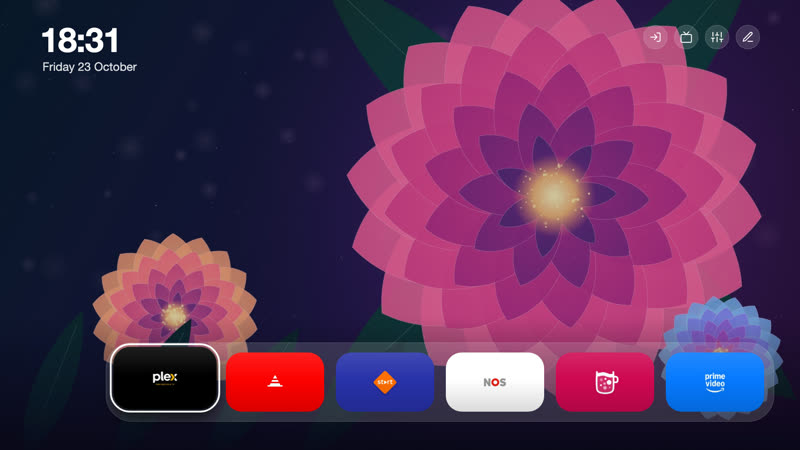
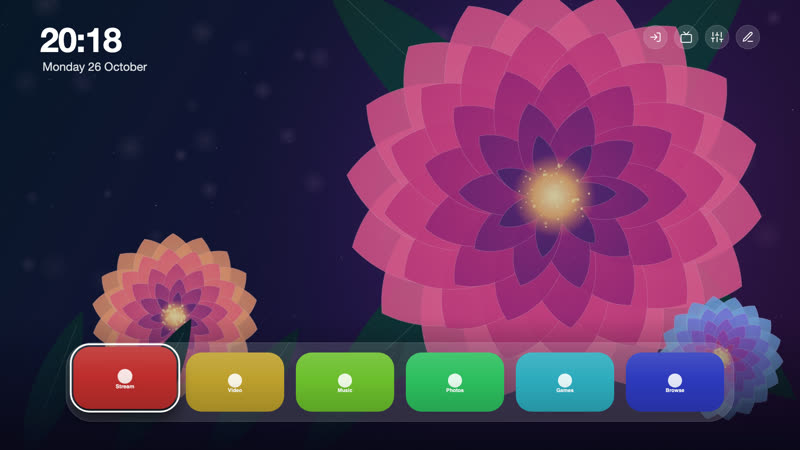
Bloom: the dock is centred. A centred dock, clock or bar was pushed 96 px off centre by the default distance from a side, and in Arabic (right-to-left) the dock went off the screen. A centred box now sits in the middle in both directions, and the Bloom preview is redone.

Changed region(s): [[0.0625, 0.7467, 0.9688, 0.9644], [0.0312, 0.0622, 0.1875, 0.1556]]

diff --git a/helper/themeschema.js b/helper/themeschema.js
@@ -67,7 +67,7 @@ const SCHEMA = [
   ['clock.layout', 'enum', ['inline', 'stack'], 'inline', '`inline`: the date beside the time; `stack`: under it.'],
   ['clock.anchor', 'enum', TOPBOT, 'top', 'Which screen edge `clock.y` counts from.'],
   ['clock.align', 'enum', POS, 'left', 'Which side `clock.x` counts from; `center` centres it.'],
-  ['clock.x', 'int', [0, 900], 96, 'Distance from that side, in px (on a 1920 x 1080 canvas).'],
+  ['clock.x', 'int', [0, 900], 96, 'Distance from that side, in px (on a 1920 x 1080 canvas). Not used when centred.'],
   ['clock.y', 'int', [0, 900], 54, 'Distance from the top or bottom edge, in px.'],
   ['clock.scale', 'num', [0.6, 2.5], 1, 'Scale of the time.'],
   ['clock.dateScale', 'num', [0.6, 2], 1, 'Scale of the date.'],
@@ -82,7 +82,7 @@ const SCHEMA = [
   ['bar.labels', 'enum', ['auto', 'show', 'hide'], 'auto', 'Button labels: `auto` shows them except in the `round` style.'],
   ['bar.anchor', 'enum', TOPBOT, 'top', 'Which screen edge `bar.y` counts from.'],
   ['bar.align', 'enum', POS, 'right', 'Which side `bar.x` counts from.'],
-  ['bar.x', 'int', [0, 900], 96, 'Distance from that side, in px.'],
+  ['bar.x', 'int', [0, 900], 96, 'Distance from that side, in px. Not used when centred.'],
   ['bar.y', 'int', [0, 900], 54, 'Distance from the top or bottom edge, in px.'],
   ['bar.size', 'int', [40, 100], 64, 'Height of a button, in px.'],
   ['bar.gap', 'int', [4, 40], 16, 'Space between buttons, in px.'],
@@ -93,7 +93,7 @@ const SCHEMA = [
   ['shelf.scale', 'num', [0.4, 1.6], 1, 'Scale of the name.'],
   ['dock.anchor', 'enum', TOPBOT, 'top', 'Which screen edge `dock.y` counts from.'],
   ['dock.align', 'enum', POS, 'left', 'Which side `dock.x` counts from; `center` centres the dock.'],
-  ['dock.x', 'int', [0, 900], 96, 'Distance from that side, in px.'],
+  ['dock.x', 'int', [0, 900], 96, 'Distance from that side, in px. Not used when centred.'],
   ['dock.y', 'auto', [0, 1000], null, 'Distance from the top or bottom edge, in px. Empty: 360 from the top, 68 from the bottom.'],
   ['dock.count', 'int', [3, 8], 4, 'Apps in the dock.'],
   ['dock.w', 'int', [120, 500], 408, 'Width of a dock tile, in px.'],
@@ -257,7 +257,8 @@ function place(anchor, align, x, y) {
   if (align === 'left') o.l = px(x);
   else if (align === 'right') o.r = px(x);
   else {
-    o.l = 'calc(50% + ' + x + 'px)';
+    // centred: x is a distance from a side, so it does not apply
+    o.l = '50%';
     o.tx = 'translateX(-50%)';
   }
   if (anchor === 'top') o.t = px(y);

diff --git a/app/index.html b/app/index.html
@@ -1274,6 +1274,7 @@ svg.st {
 [dir="rtl"] #clock {
   left: var(--clock-r);
   right: var(--clock-l);
+  transform: var(--clock-txr, var(--clock-tx));
 }
 [dir="rtl"] #date {
   margin-left: 0;
@@ -1285,6 +1286,7 @@ svg.st {
 [dir="rtl"] #bar {
   left: var(--bar-r);
   right: var(--bar-l);
+  transform: var(--bar-txr, var(--bar-tx));
 }
 [dir="rtl"] #bar > * + * {
   margin-left: 0;
@@ -1303,6 +1305,7 @@ svg.st {
 [dir="rtl"] #dock {
   left: var(--dock-r);
   right: var(--dock-l);
+  transform: var(--dock-txr, var(--dock-tx));
 }
 [dir="rtl"] #dock > * + * {
   margin-left: 0;
@@ -1970,6 +1973,13 @@ function applyTheme(t) {
     st.setProperty(k, t.vars[k]);
     themeKeys.push(k);
   }
+  /* a centred box is placed from the right in a right-to-left language (rtl.css), so it moves the other way to its centre */
+  ['clock', 'bar', 'dock'].forEach(function (n) {
+    if (t.vars['--' + n + '-tx'] === 'translateX(-50%)') {
+      st.setProperty('--' + n + '-txr', 'translateX(50%)');
+      themeKeys.push('--' + n + '-txr');
+    }
+  });
   /* a theme's own typeface, served from its folder; the family name is in --font */
   var fs = $('tfont'),
     f = t.font,

diff --git a/app/src/js/theme.js b/app/src/js/theme.js
@@ -19,6 +19,13 @@ function applyTheme(t) {
     st.setProperty(k, t.vars[k]);
     themeKeys.push(k);
   }
+  /* a centred box is placed from the right in a right-to-left language (rtl.css), so it moves the other way to its centre */
+  ['clock', 'bar', 'dock'].forEach(function (n) {
+    if (t.vars['--' + n + '-tx'] === 'translateX(-50%)') {
+      st.setProperty('--' + n + '-txr', 'translateX(50%)');
+      themeKeys.push('--' + n + '-txr');
+    }
+  });
   /* a theme's own typeface, served from its folder; the family name is in --font */
   var fs = $('tfont'),
     f = t.font,

diff --git a/app/src/css/rtl.css b/app/src/css/rtl.css
@@ -4,6 +4,7 @@
 [dir="rtl"] #clock {
   left: var(--clock-r);
   right: var(--clock-l);
+  transform: var(--clock-txr, var(--clock-tx));
 }
 [dir="rtl"] #date {
   margin-left: 0;
@@ -15,6 +16,7 @@
 [dir="rtl"] #bar {
   left: var(--bar-r);
   right: var(--bar-l);
+  transform: var(--bar-txr, var(--bar-tx));
 }
 [dir="rtl"] #bar > * + * {
   margin-left: 0;
@@ -33,6 +35,7 @@
 [dir="rtl"] #dock {
   left: var(--dock-r);
   right: var(--dock-l);
+  transform: var(--dock-txr, var(--dock-tx));
 }
 [dir="rtl"] #dock > * + * {
   margin-left: 0;

diff --git a/docs/themes.md b/docs/themes.md
@@ -161,7 +161,7 @@ when the focus moves down into it (Back or Up closes it); a dock at the top leav
 | `clock.layout` | `inline`, `stack` | `inline` | `inline`: the date beside the time; `stack`: under it. |
 | `clock.anchor` | `top`, `bottom` | `top` | Which screen edge `clock.y` counts from. |
 | `clock.align` | `left`, `center`, `right` | `left` | Which side `clock.x` counts from; `center` centres it. |
-| `clock.x` | 0 to 900 | `96` | Distance from that side, in px (on a 1920 x 1080 canvas). |
+| `clock.x` | 0 to 900 | `96` | Distance from that side, in px (on a 1920 x 1080 canvas). Not used when centred. |
 | `clock.y` | 0 to 900 | `54` | Distance from the top or bottom edge, in px. |
 | `clock.scale` | 0.6 to 2.5 | `1` | Scale of the time. |
 | `clock.dateScale` | 0.6 to 2 | `1` | Scale of the date. |
@@ -171,7 +171,7 @@ when the focus moves down into it (Back or Up closes it); a dock at the top leav
 | `bar.labels` | `auto`, `show`, `hide` | `auto` | Button labels: `auto` shows them except in the `round` style. |
 | `bar.anchor` | `top`, `bottom` | `top` | Which screen edge `bar.y` counts from. |
 | `bar.align` | `left`, `center`, `right` | `right` | Which side `bar.x` counts from. |
-| `bar.x` | 0 to 900 | `96` | Distance from that side, in px. |
+| `bar.x` | 0 to 900 | `96` | Distance from that side, in px. Not used when centred. |
 | `bar.y` | 0 to 900 | `54` | Distance from the top or bottom edge, in px. |
 | `bar.size` | 40 to 100 | `64` | Height of a button, in px. |
 | `bar.gap` | 4 to 40 | `16` | Space between buttons, in px. |
@@ -184,7 +184,7 @@ when the focus moves down into it (Back or Up closes it); a dock at the top leav
 | **dock** | | | |
 | `dock.anchor` | `top`, `bottom` | `top` | Which screen edge `dock.y` counts from. |
 | `dock.align` | `left`, `center`, `right` | `left` | Which side `dock.x` counts from; `center` centres the dock. |
-| `dock.x` | 0 to 900 | `96` | Distance from that side, in px. |
+| `dock.x` | 0 to 900 | `96` | Distance from that side, in px. Not used when centred. |
 | `dock.y` | px, 0 to 1000 | empty | Distance from the top or bottom edge, in px. Empty: 360 from the top, 68 from the bottom. |
 | `dock.count` | 3 to 8 | `4` | Apps in the dock. |
 | `dock.w` | 120 to 500 | `408` | Width of a dock tile, in px. |
